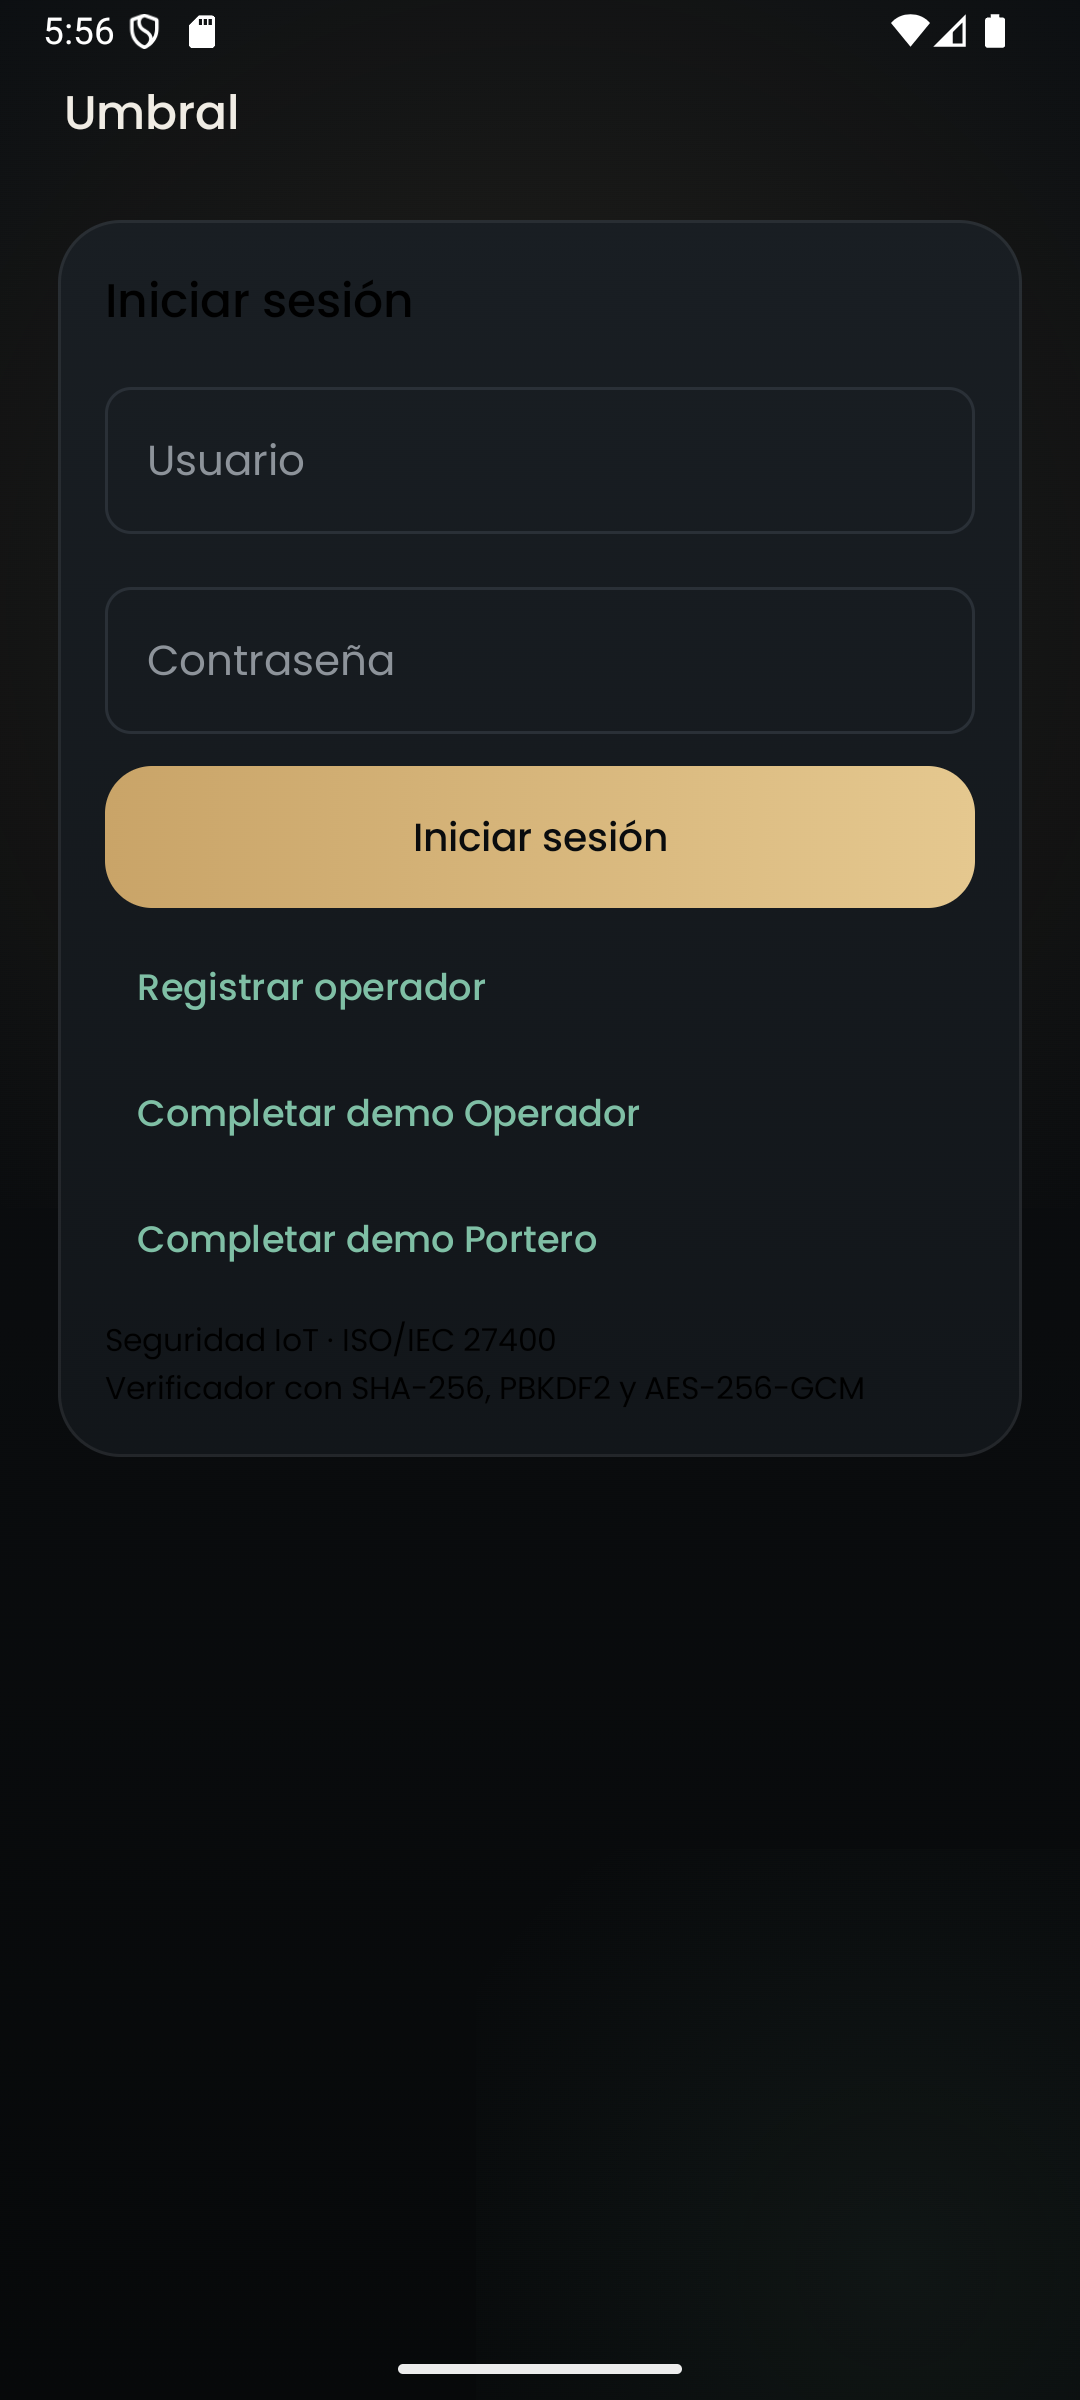
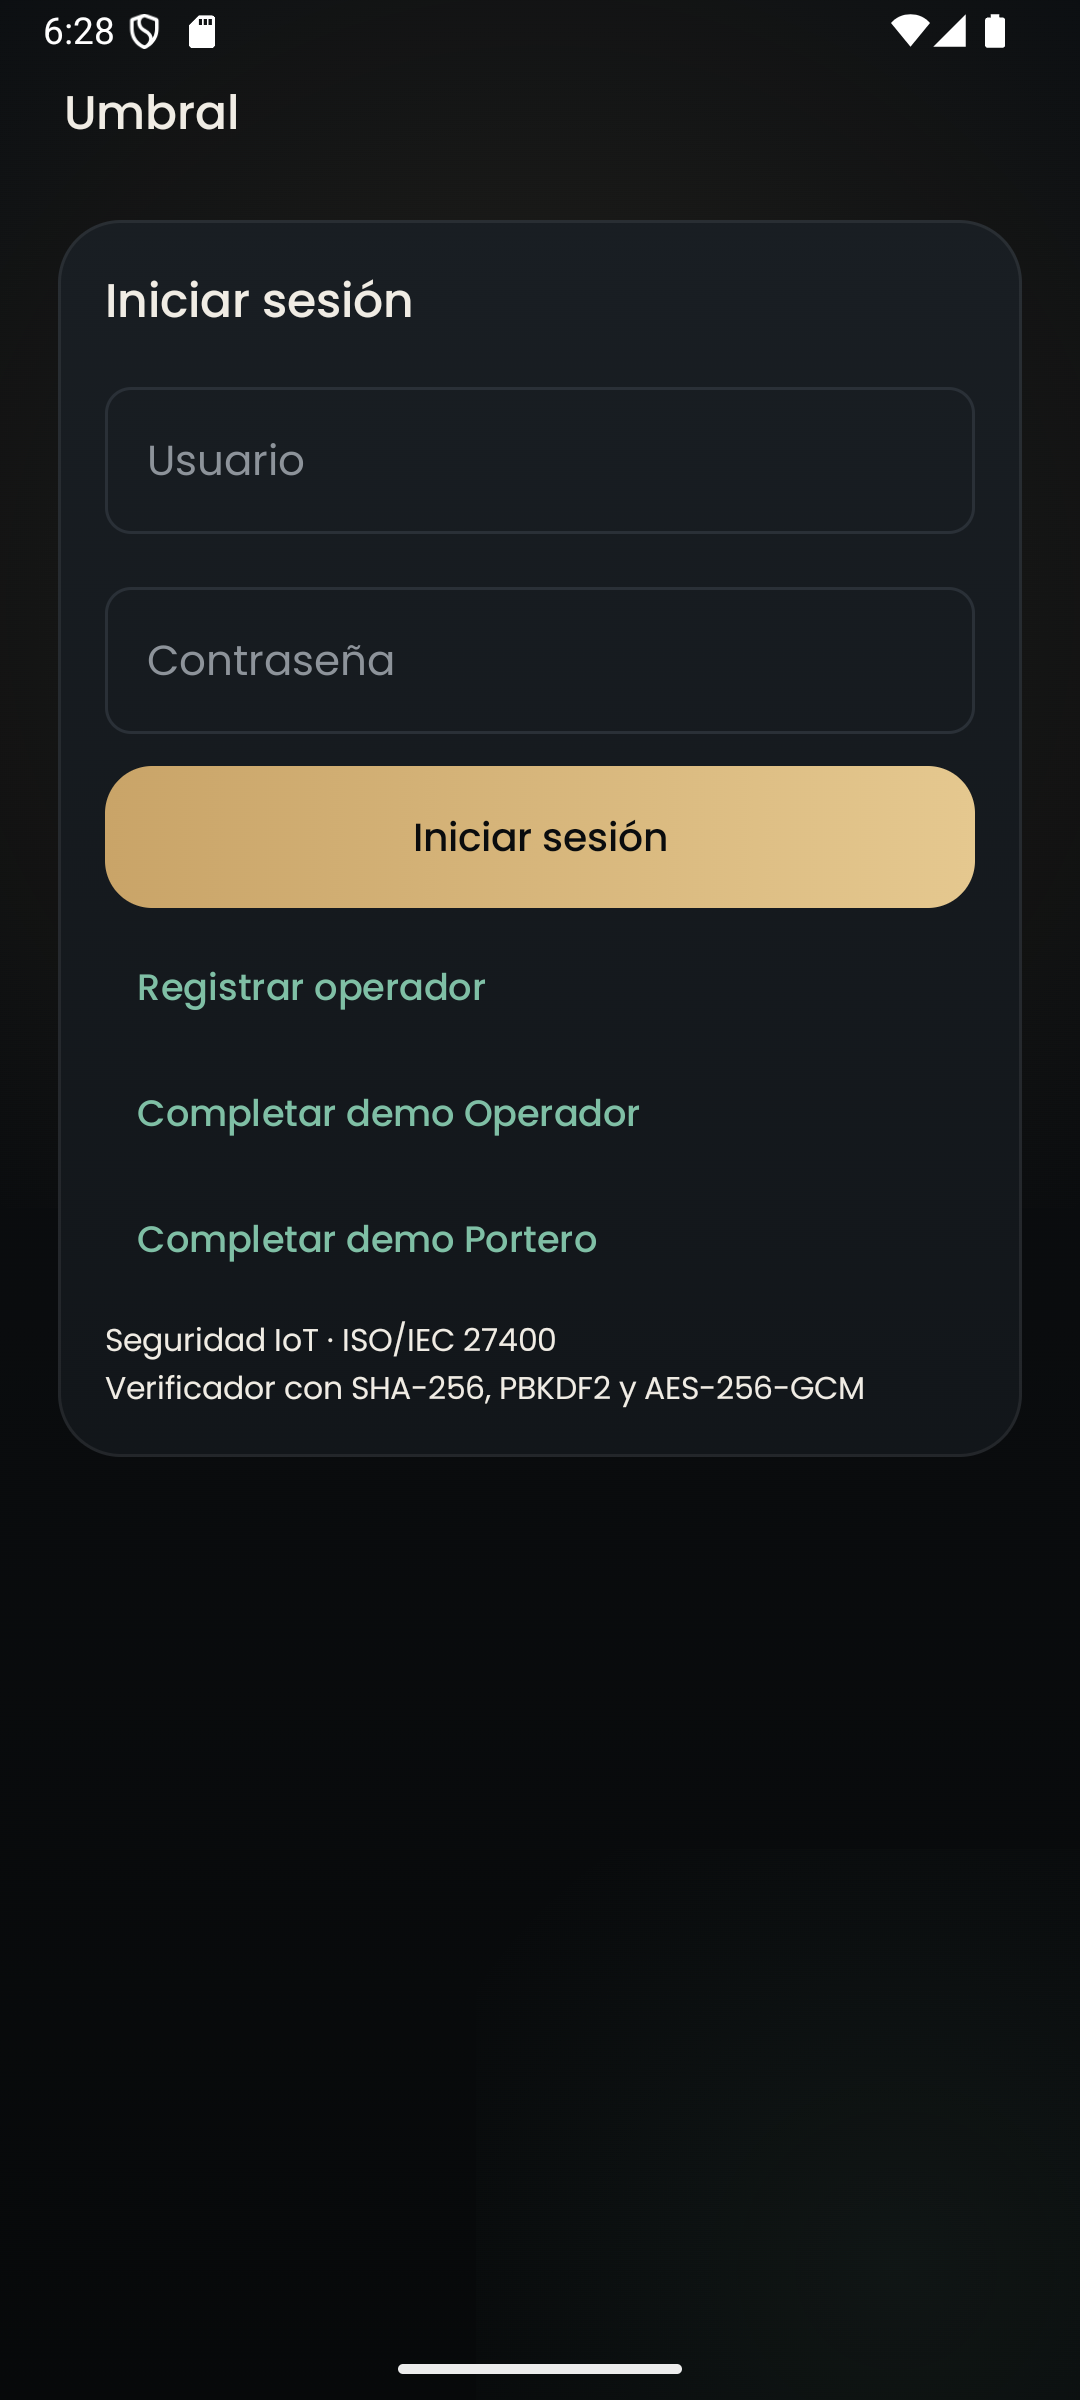
Mejora la legibilidad y simplifica el README

diff --git a/app/src/main/java/com/marcelodh/umbral/screens/PantallaUmbral.kt b/app/src/main/java/com/marcelodh/umbral/screens/PantallaUmbral.kt
@@ -16,6 +16,7 @@ import androidx.compose.foundation.lazy.LazyColumn
 import androidx.compose.foundation.lazy.items
 import androidx.compose.foundation.text.KeyboardOptions
 import androidx.compose.material3.Button
+import androidx.compose.material3.ButtonDefaults
 import androidx.compose.material3.Card
 import androidx.compose.material3.HorizontalDivider
 import androidx.compose.material3.LocalContentColor
@@ -137,6 +138,7 @@ private fun PanelEnlace(vm: ControlUmbral) = Column(verticalArrangement = Arrang
         Button(
             onClick = { vm.conectar(pin); pin = "" },
             enabled = vm.rol != null && vm.seleccionado != null && (vm.rol == Rol.SIMULADOR || pin.length == 4),
+            colors = coloresBotonPanel(),
             modifier = Modifier.fillMaxWidth()
         ) { Text(if (vm.rol == Rol.SIMULADOR) "Iniciar espera" else "Conectar") }
     } else {
@@ -169,15 +171,23 @@ private fun Monitoreo(vm: ControlUmbral) {
                 Button(
                     onClick = vm::solicitarApertura,
                     enabled = conectado && vm.abierta == false && vm.pendiente == null,
+                    colors = coloresBotonPanel(),
                     modifier = Modifier.fillMaxWidth()
                 ) { Text(if (vm.pendiente == null) "Solicitar apertura" else "Esperando confirmación…") }
             } else {
                 Text("Puerta y sensor de presencia simulados.")
                 Button(
                     onClick = vm::simularPresencia, enabled = conectado,
+                    colors = coloresBotonPanel(),
                     modifier = Modifier.fillMaxWidth()
                 ) { Text("Simular presencia") }
             }
         }
     }
 }
+
+@Composable
+private fun coloresBotonPanel() = ButtonDefaults.buttonColors(
+    disabledContainerColor = MaterialTheme.colorScheme.surfaceVariant,
+    disabledContentColor = MaterialTheme.colorScheme.onSurfaceVariant
+)

diff --git a/app/src/main/java/com/marcelodh/umbral/screens/PantallaRadar.kt b/app/src/main/java/com/marcelodh/umbral/screens/PantallaRadar.kt
@@ -246,16 +246,19 @@ fun PantallaRadar(
                         horizontalAlignment = Alignment.CenterHorizontally
                     ) {
                         Text(
-                            text = "Barriendo la puerta…",
+                            text = if (estado is EstadoEscaneo.Activo) "Buscando dispositivos cercanos…"
+                            else "Sin dispositivos detectados",
                             style = MaterialTheme.typography.titleMedium,
                             color = Hueso
                         )
-                        Spacer(Modifier.height(6.dp))
-                        Text(
-                            text = "Los teléfonos y las balizas aparecen cuando emiten una señal. Mantén esta pantalla abierta unos segundos.",
-                            style = MaterialTheme.typography.bodySmall,
-                            color = Ceniza
-                        )
+                        if (estado is EstadoEscaneo.Activo) {
+                            Spacer(Modifier.height(6.dp))
+                            Text(
+                                text = "Los teléfonos y las balizas aparecen cuando emiten una señal.",
+                                style = MaterialTheme.typography.bodySmall,
+                                color = Ceniza
+                            )
+                        }
                     }
                 } else {
                     LazyColumn(
@@ -280,7 +283,7 @@ fun PantallaRadar(
                 Text(
                     text = "El radar detecta señales de dispositivos Bluetooth LE cercanos.",
                     style = MaterialTheme.typography.labelSmall,
-                    color = Ceniza.copy(alpha = 0.55f),
+                    color = Ceniza,
                     modifier = Modifier.padding(horizontal = 22.dp, vertical = 8.dp)
                 )
             }

diff --git a/app/src/main/java/com/marcelodh/umbral/viewmodel/ControlUmbral.kt b/app/src/main/java/com/marcelodh/umbral/viewmodel/ControlUmbral.kt
@@ -113,8 +113,18 @@ class ControlUmbral(app: Application) : AndroidViewModel(app) {
         viewModelScope.launch {
             try {
                 val resultado = enDb {
-                    if (registro == null) autenticar(nombre, clave)
-                    else crearCuenta(nombre, clave, registro)?.let { ResultadoIngreso.Correcto(it) }
+                    if (registro == null) {
+                        autenticar(nombre, clave).also { ingreso ->
+                            val detalle = when (ingreso) {
+                                is ResultadoIngreso.Correcto -> "Inicio de sesión aceptado"
+                                ResultadoIngreso.Incorrecto -> "Inicio de sesión rechazado"
+                                ResultadoIngreso.Bloqueado -> "Inicio de sesión bloqueado"
+                            }
+                            registrar("Sesión", detalle, exito = ingreso is ResultadoIngreso.Correcto)
+                        }
+                    } else {
+                        crearCuenta(nombre, clave, registro)?.let { ResultadoIngreso.Correcto(it) }
+                    }
                 }
                 when (resultado) {
                     is ResultadoIngreso.Correcto -> {
@@ -383,10 +393,6 @@ class ControlUmbral(app: Application) : AndroidViewModel(app) {
 
     override fun onCleared() {
         enlace?.cerrar()
-        // Cerrar el helper después de cualquier escritura en curso.
-        kotlinx.coroutines.CoroutineScope(Dispatchers.IO).launch {
-            accesoDb.withLock { datos.close() }
-        }
         super.onCleared()
     }
 }

diff --git a/app/src/main/java/com/marcelodh/umbral/screens/PantallaAjustes.kt b/app/src/main/java/com/marcelodh/umbral/screens/PantallaAjustes.kt
@@ -151,7 +151,7 @@ fun PantallaAjustes(
                     Text(
                         text = "Entre 5 y 60 segundos",
                         style = MaterialTheme.typography.labelSmall,
-                        color = Ceniza.copy(alpha = 0.6f)
+                        color = Ceniza
                     )
                 }
 
@@ -279,7 +279,7 @@ fun PantallaAjustes(
                 Text(
                     text = "Kotlin + Jetpack Compose\nTaller de Android Mobile e IoT",
                     style = MaterialTheme.typography.labelSmall,
-                    color = Ceniza.copy(alpha = 0.55f),
+                    color = Ceniza,
                     textAlign = TextAlign.Center,
                     modifier = Modifier.fillMaxWidth()
                 )
@@ -348,7 +348,7 @@ private fun DialogoCambioCodigo(
                 Text(
                     text = "La estación puede cambiar el código desde Ajustes.",
                     style = MaterialTheme.typography.labelSmall,
-                    color = Ceniza.copy(alpha = 0.65f)
+                    color = Ceniza
                 )
             }
         },

diff --git a/app/src/main/java/com/marcelodh/umbral/ui/componentes/Botones.kt b/app/src/main/java/com/marcelodh/umbral/ui/componentes/Botones.kt
@@ -36,7 +36,6 @@ import androidx.compose.ui.graphics.graphicsLayer
 import androidx.compose.ui.graphics.vector.ImageVector
 import androidx.compose.ui.unit.dp
 import com.marcelodh.umbral.theme.Ceniza
-import com.marcelodh.umbral.theme.CenizaOscura
 import com.marcelodh.umbral.theme.Grafito
 import com.marcelodh.umbral.theme.Hueso
 import com.marcelodh.umbral.theme.Laton
@@ -101,7 +100,7 @@ fun BotonPrincipal(
             Icon(
                 imageVector = icono,
                 contentDescription = null,
-                tint = if (habilitado) Obsidiana else CenizaOscura,
+                tint = if (habilitado) Obsidiana else Ceniza,
                 modifier = Modifier.size(18.dp)
             )
             Spacer(Modifier.width(10.dp))
@@ -109,7 +108,7 @@ fun BotonPrincipal(
         Text(
             text = texto,
             style = MaterialTheme.typography.titleMedium,
-            color = if (habilitado) Obsidiana else CenizaOscura
+            color = if (habilitado) Obsidiana else Ceniza
         )
     }
 }

diff --git a/app/src/main/java/com/marcelodh/umbral/ui/componentes/TecladoCodigo.kt b/app/src/main/java/com/marcelodh/umbral/ui/componentes/TecladoCodigo.kt
@@ -34,7 +34,7 @@ import androidx.compose.ui.graphics.Color
 import androidx.compose.ui.graphics.graphicsLayer
 import androidx.compose.ui.text.font.FontWeight
 import androidx.compose.ui.unit.dp
-import com.marcelodh.umbral.theme.CenizaOscura
+import com.marcelodh.umbral.theme.Ceniza
 import com.marcelodh.umbral.theme.Hueso
 import com.marcelodh.umbral.theme.Laton
 import com.marcelodh.umbral.theme.Terracota
@@ -163,7 +163,7 @@ private fun TeclaNumero(
             text = valor,
             style = MaterialTheme.typography.headlineMedium,
             fontWeight = FontWeight.Light,
-            color = if (habilitado) Hueso else CenizaOscura
+            color = if (habilitado) Hueso else Ceniza
         )
     }
 }
@@ -201,7 +201,7 @@ private fun TeclaIcono(
         Icon(
             imageVector = Icons.Rounded.Backspace,
             contentDescription = "Borrar",
-            tint = CenizaOscura,
+            tint = Ceniza,
             modifier = Modifier.size(22.dp)
         )
     }

diff --git a/app/src/main/java/com/marcelodh/umbral/model/EstadoEscaneo.kt b/app/src/main/java/com/marcelodh/umbral/model/EstadoEscaneo.kt
@@ -14,7 +14,7 @@ sealed class EstadoEscaneo {
 val EstadoEscaneo.mensaje: String
     get() = when (this) {
         is EstadoEscaneo.Inactivo -> "Radar en pausa"
-        is EstadoEscaneo.Iniciando -> "Calibrando antena…"
+        is EstadoEscaneo.Iniciando -> "Iniciando búsqueda…"
         is EstadoEscaneo.Activo -> "Escuchando dispositivos BLE"
         is EstadoEscaneo.SinBluetooth -> "Este equipo no tiene Bluetooth LE"
         is EstadoEscaneo.BluetoothApagado -> "El Bluetooth está apagado"

diff --git a/app/src/main/java/com/marcelodh/umbral/screens/PantallaNfc.kt b/app/src/main/java/com/marcelodh/umbral/screens/PantallaNfc.kt
@@ -303,7 +303,7 @@ fun PantallaNfc(
                     Text(
                         text = "El UID de la tarjeta se guarda localmente en este dispositivo.",
                         style = MaterialTheme.typography.labelSmall,
-                        color = Ceniza.copy(alpha = 0.6f),
+                        color = Ceniza,
                         textAlign = TextAlign.Center
                     )
                 }

diff --git a/app/src/main/java/com/marcelodh/umbral/screens/PantallaCodigo.kt b/app/src/main/java/com/marcelodh/umbral/screens/PantallaCodigo.kt
@@ -187,7 +187,7 @@ fun PantallaCodigo(
                 Text(
                     text = "Configura el código en Ajustes",
                     style = MaterialTheme.typography.labelSmall,
-                    color = Ceniza.copy(alpha = 0.6f),
+                    color = Ceniza,
                     textAlign = TextAlign.Center
                 )
                 Spacer(Modifier.height(26.dp))

diff --git a/app/src/main/java/com/marcelodh/umbral/screens/PantallaInicio.kt b/app/src/main/java/com/marcelodh/umbral/screens/PantallaInicio.kt
@@ -232,7 +232,7 @@ fun PantallaInicio(
                 Text(
                     text = "Bluetooth LE · NFC · sin nube",
                     style = MaterialTheme.typography.labelSmall,
-                    color = Ceniza.copy(alpha = 0.55f)
+                    color = Ceniza
                 )
                 Spacer(Modifier.height(26.dp))
             }

diff --git a/app/src/main/java/com/marcelodh/umbral/ui/componentes/FondoUmbral.kt b/app/src/main/java/com/marcelodh/umbral/ui/componentes/FondoUmbral.kt
@@ -163,6 +163,7 @@ fun MarcoUmbral(
 ) {
     Scaffold(
         containerColor = Color.Transparent,
+        contentColor = MaterialTheme.colorScheme.onBackground,
         topBar = {
             if (titulo != null) {
                 BarraSuperior(titulo = titulo, alVolver = alVolver, acciones = acciones)

diff --git a/app/src/main/java/com/marcelodh/umbral/theme/Color.kt b/app/src/main/java/com/marcelodh/umbral/theme/Color.kt
@@ -13,4 +13,3 @@ val Salvia = Color(0xFF7FBFA5)
 val Terracota = Color(0xFFDF7A63)
 val Hueso = Color(0xFFF0ECE4)
 val Ceniza = Color(0xFF8D939A)
-val CenizaOscura = Color(0xFF5D636A)
